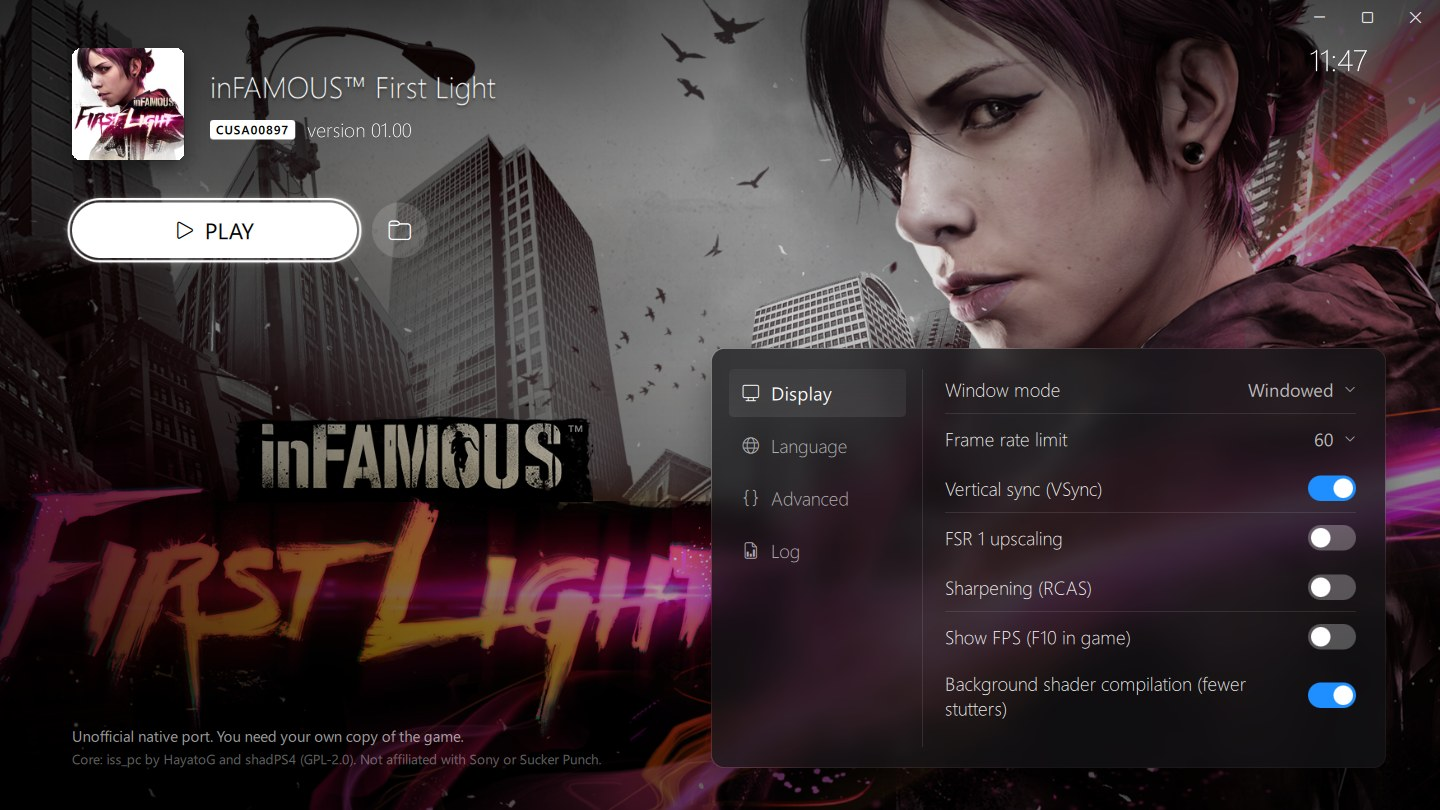
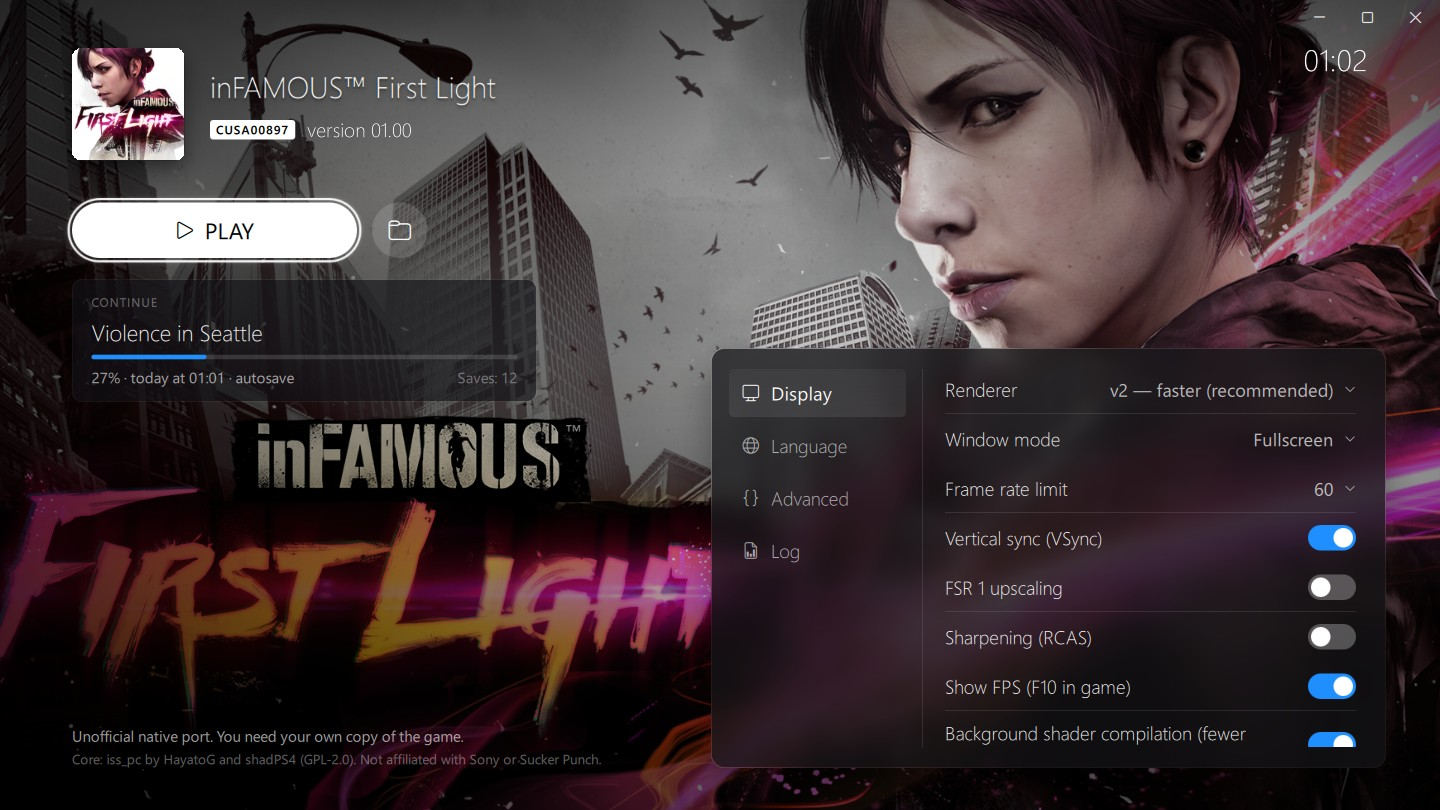
README: the launcher screenshot with renderer v2 and the Continue card

diff --git a/README.md b/README.md
@@ -20,7 +20,7 @@ An unofficial native Windows port of **inFAMOUS First Light** (PS4). The game's 
 |---|---|
 | ![Fetch's neon power in a cutscene, 45 FPS](docs/screenshots/gameplay-neon-power.jpg) | ![An arena challenge with the performance overlay, 36 FPS](docs/screenshots/gameplay-arena.jpg) |
 
-![The launcher: the game's own art, Play and the settings](docs/screenshots/launcher.jpg)
+![The launcher: the game's own art, Play, the newest save to continue and the settings](docs/screenshots/launcher.jpg)
 
 ### ▶ Gameplay video
 
